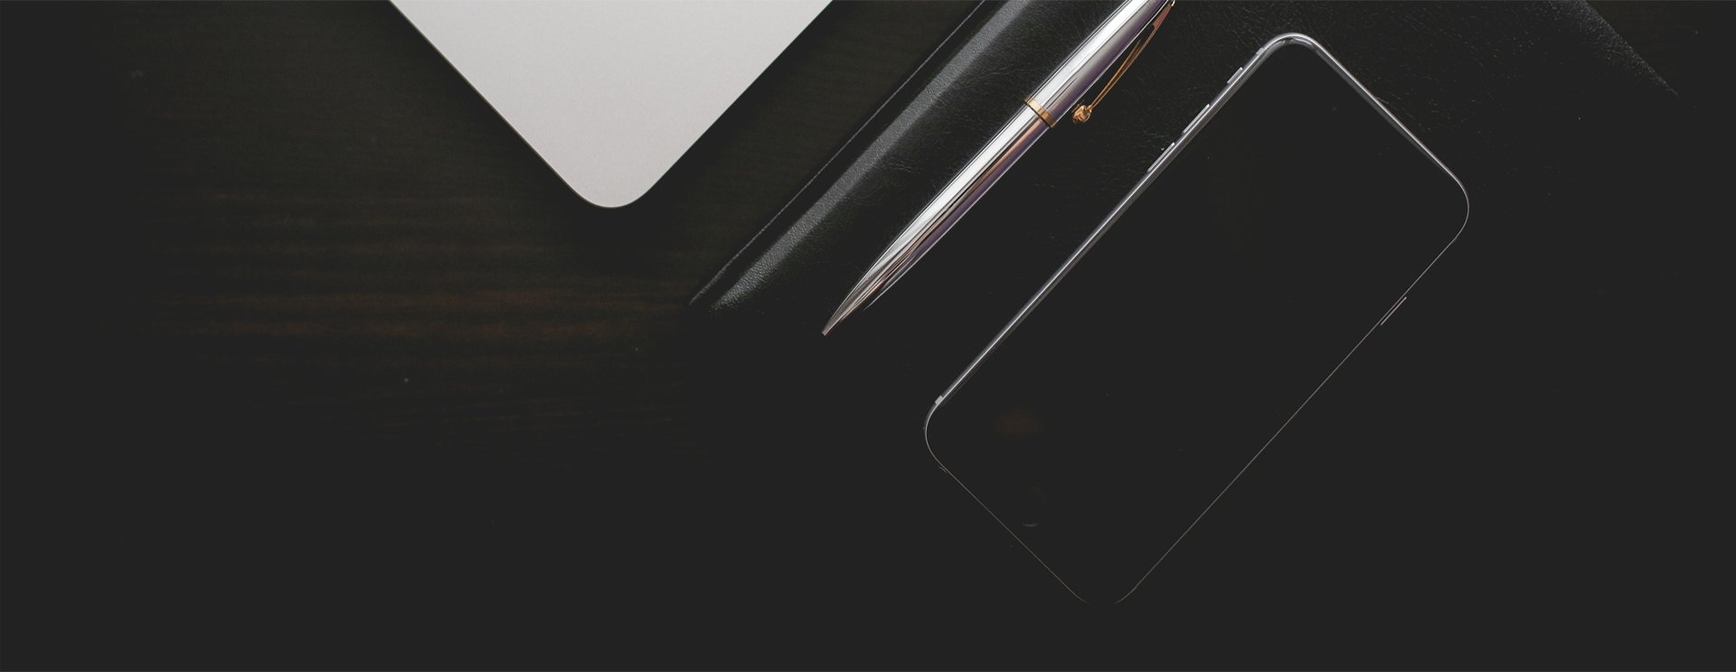
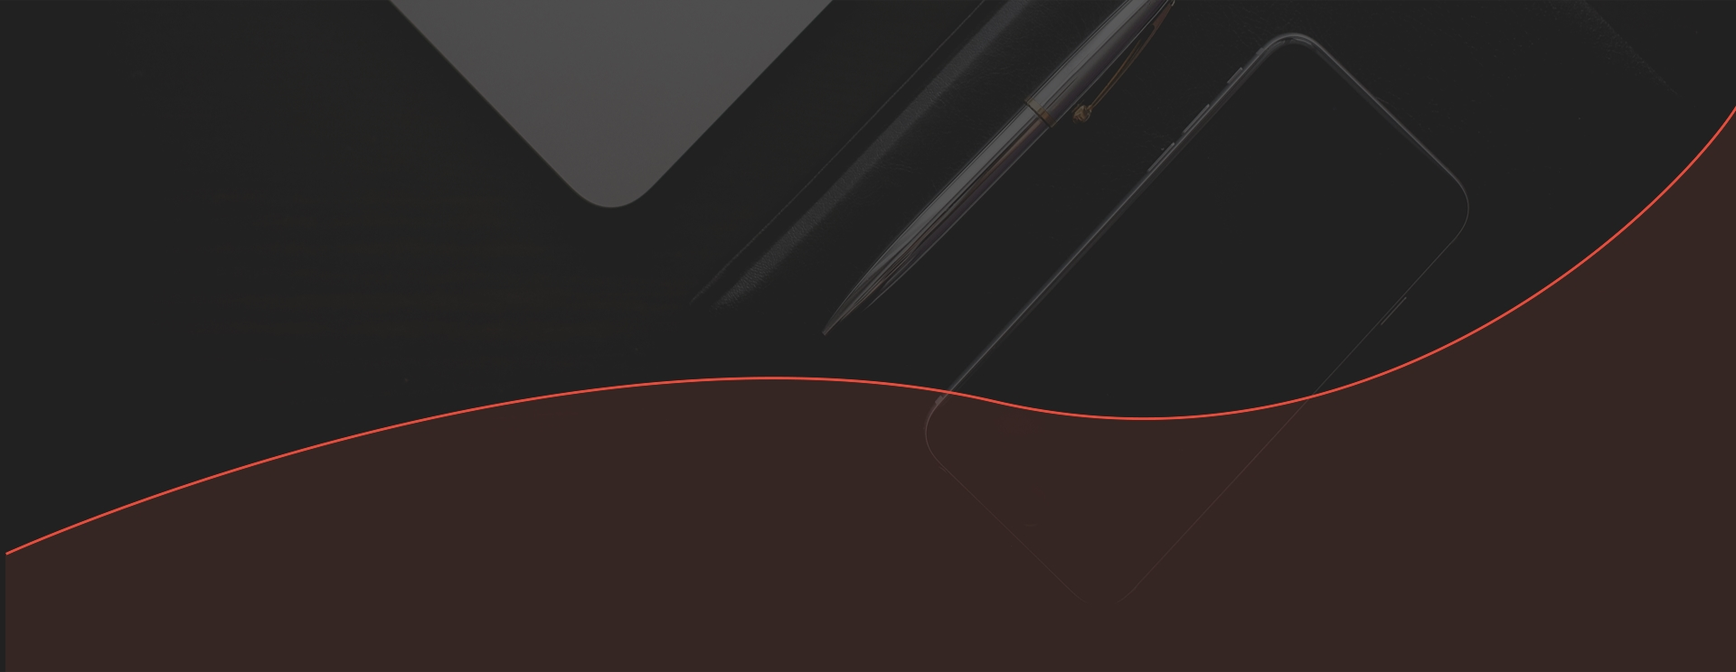
Исправил backdround в stats, team

diff --git a/css/main.min.css b/css/main.min.css
@@ -1,2 +1,2 @@
-body{font-family:"Source Sans Pro", sans-serif;font-size:14px;font-weight:300;color:#f3f5f9;margin:0px}li{list-style-type:none}.container{width:1170px;margin-left:auto;margin-right:auto}.header .container{display:-webkit-box;display:-ms-flexbox;display:flex;padding-top:32px;padding-bottom:31px}.background{background-image:url("../images/header/header-background.png");background-repeat:no-repeat;background-position:center}@media screen and (min-width: 1920px){.background{width:1920px;margin-left:auto;margin-right:auto}}.logo_first_block{padding-top:7px;padding-bottom:5px;padding-left:15px;padding-right:12px;font-family:"Open Sans", sans-serif;font-weight:700;font-size:36px;color:rgba(0,0,0,0.7);background-color:#f3f5f9}.logo_second_block{padding-top:4px;padding-bottom:2px;padding-left:9px;padding-right:10px;margin-left:-4px;font-family:"Open Sans", sans-serif;font-size:36px;color:#f3f5f9;border:3px solid #f3f5f9}.header_list{display:-webkit-box;display:-ms-flexbox;display:flex;margin-left:170px;padding:0px}.header_item{padding-top:5px;padding-bottom:20px;padding-left:5px;padding-right:5px;margin-left:55px;border-bottom:2px solid transparent}.header_item:hover{cursor:pointer;color:red;border-bottom:2px solid red}.header_item.is_active{color:red;border-bottom:2px solid red}.hero{position:relative;display:-webkit-box;display:-ms-flexbox;display:flex;-webkit-box-orient:vertical;-webkit-box-direction:normal;-ms-flex-direction:column;flex-direction:column;-webkit-box-align:center;-ms-flex-align:center;align-items:center;margin-top:203px}.hero_second_title{margin-top:0px;margin-bottom:40px;font-size:24px;font-weight:400}.hero_title{margin-top:0px;margin-bottom:42px;font-family:"Open Sans", sans-serif;font-size:72px;font-weight:700;line-height:1.2;letter-spacing:0.1em}.figure{display:-webkit-box;display:-ms-flexbox;display:flex;-webkit-box-align:center;-ms-flex-align:center;align-items:center;margin-bottom:42px}.figure .line{width:80px;height:1px;background-color:#f3f5f9;border:1px solid #f3f5f9}.figure .circle{width:7px;height:7px;margin-left:14px;margin-right:14px;background-color:#e74e3e;border-radius:50%}.hero_text_wrapper{max-width:580px}.hero_text{margin-top:0px;margin-bottom:68px;text-align:center;font-family:"Open Sans";font-size:14px;line-height:24px;font-weight:400;opacity:0.7}.hero_button{width:225px;height:56px;margin-left:30px;margin-bottom:210px;background-color:transparent;-webkit-box-shadow:0px 2px 5px 0px rgba(0,0,0,0.25);box-shadow:0px 2px 5px 0px rgba(0,0,0,0.25);border:1px solid #f3f5f9;font-family:"Open Sans";font-size:14px;line-height:1.2;font-weight:700;text-transform:uppercase;letter-spacing:0.01em;color:#f3f5f9}.hero_button:hover{background-color:#e74e3e;border:0px solid transparent}.hero_button:first-child{margin-left:0px}.hero_slider_arrow{position:absolute;top:100px;right:48px;display:-webkit-box;display:-ms-flexbox;display:flex;-webkit-box-align:center;-ms-flex-align:center;align-items:center;-webkit-box-pack:center;-ms-flex-pack:center;justify-content:center;cursor:pointer;width:45px;height:45px;background-color:#e74e3e}.blog{position:relative;display:-webkit-box;display:-ms-flexbox;display:flex;-webkit-box-orient:vertical;-webkit-box-direction:normal;-ms-flex-direction:column;flex-direction:column;-webkit-box-align:center;-ms-flex-align:center;align-items:center}.blog_ankor_logo{position:absolute;top:-35px;width:74px;height:74px;background-color:rgba(244,245,249,0.25);border-radius:50%}.ankor_logo{margin-top:5px;margin-left:5px;width:64px;height:64px;background-color:#f3f5f9;background-image:url("../images/blog/ankor.png");background-repeat:no-repeat;background-position:50% 50%;border-radius:50%}.blog_title{margin-top:67px;margin-bottom:0px;font-family:"Source Sans Pro";font-size:36px;line-height:20px;font-weight:700;text-transform:uppercase;text-shadow:0px 1px 0px #f3f5f9;color:#6a6a6a}.blog .figure .line{margin-top:25px;display:-webkit-box;display:-ms-flexbox;display:flex;-webkit-box-align:center;-ms-flex-align:center;align-items:center;background-color:#999;border:1px solid #999}.blog .figure .circle{margin-top:25px}.blog_text{margin-top:32px;font-family:"Open Sans";font-size:14px;line-height:21px;font-weight:400;color:#999}.blog_item_img{max-width:480px}.blog_list{display:-webkit-box;display:-ms-flexbox;display:flex;-ms-flex-wrap:wrap;flex-wrap:wrap;-webkit-box-pack:center;-ms-flex-pack:center;justify-content:center;max-width:1920px;margin:0px;padding:0px}.blog_item{display:-webkit-box;display:-ms-flexbox;display:flex;background-color:#e74e3e}.blog_item_text{position:relative;max-width:431px;padding-left:49px}.blog_item_text_triangle_to_left{position:absolute;top:50%;left:-26px}.blog_item_text_triangle_to_right{position:absolute;top:50%;right:-26px;width:28px}.blog_item_text_category{margin-top:71px;margin-bottom:32px;font-family:"Open Sans";font-size:14px;line-height:1.2;font-weight:400;letter-spacing:0.05em}.blog_item_text_title{position:relative;margin-top:0px;margin-bottom:73px;font-family:"Source Sans Pro";font-size:24px;line-height:1.2;font-weight:600;letter-spacing:0.05em}.blog_item_text_title::after{content:" ";position:absolute;top:48px;left:0;width:44px;height:4px;background-color:#f3f5f9}.blog_item_text_text{margin-top:0px;margin-bottom:55px;margin-right:51px;font-family:"Open Sans";font-size:16px;line-height:1.8;font-weight:300}.blog_item_text_link{margin:0px;font-family:"Open Sans";font-size:18px;line-height:0.75;font-weight:600;font-style:italic}.stats .container{padding-top:143px;padding-bottom:143px}.stats{background-image:-webkit-gradient(linear, left top, left bottom, from(rgba(0,0,0,0.7)), to(rgba(0,0,0,0.7))),url("../../images/stats/stats-background.jpg");background-image:linear-gradient(rgba(0,0,0,0.7), rgba(0,0,0,0.7)),url("../../images/stats/stats-background.jpg");background-repeat:no-repeat;background-position:50% 50%}@media screen and (min-width: 1920px){.stats{width:1920px;margin-left:auto;margin-right:auto}}.stats_list{display:-webkit-box;display:-ms-flexbox;display:flex;padding:0px;margin:0px}.stats_item{display:-webkit-box;display:-ms-flexbox;display:flex;-webkit-box-orient:vertical;-webkit-box-direction:normal;-ms-flex-direction:column;flex-direction:column;-webkit-box-align:center;-ms-flex-align:center;align-items:center;margin-right:147px}.stats_item:last-child{margin-right:0px}.stats_img_wrapper{margin-bottom:49px;position:relative;width:111px;height:111px;border:1px solid #ffffff;border-radius:50%}.stats_img{position:absolute;-webkit-transform:translate(-50%, -50%);transform:translate(-50%, -50%);top:50%;left:50%}.stats_quantity{margin-top:0px;margin-bottom:10px}.stats_name{margin-top:0px;text-align:center;font-size:16px;font-weight:300}.pricing .container{padding-top:156px;display:-webkit-box;display:-ms-flexbox;display:flex;-webkit-box-orient:vertical;-webkit-box-direction:normal;-ms-flex-direction:column;flex-direction:column;-webkit-box-align:center;-ms-flex-align:center;align-items:center}.pricing_title{margin:0px;font-family:"Source Sans Pro";font-size:36px;line-height:1.2;font-weight:700;letter-spacing:0.1em;color:#6a6a6a}.pricing_text{margin-top:29px;margin-bottom:0px;font-family:"Open Sans";font-size:14px;line-height:29px;font-weight:400;color:#999}.pricing .figure{margin-top:28px;margin-bottom:0px}.pricing_list{margin-top:70px;margin-bottom:0px;padding:0px;display:-webkit-box;display:-ms-flexbox;display:flex}.pricing_item{position:relative;background-color:#999;margin-right:16px}.pricing_item:last-child{margin-right:0px}.pricing_item:hover{background-color:#e74e3e}.pricing_item:hover .pricing_price{color:#e74e3e}.pricing_item:hover .pricing_item_button{background-color:#e74e3e}.pricing_item_title{margin:0px;padding-top:50px;padding-bottom:136px;padding-left:133px;padding-right:133px;font-family:"Open Sans";font-size:24px;line-height:1.2;font-weight:700;text-transform:uppercase;letter-spacing:0.075em;color:#f3f5f9}.pricing_price_wrapper{position:absolute;top:27%;left:50%;-webkit-transform:translate(-50%, -50%);transform:translate(-50%, -50%);margin-top:45px;margin-left:auto;margin-right:auto;width:174px;height:172px;background-color:rgba(244,245,249,0.25);border-radius:50%}.pricing_price_circle{position:absolute;top:50%;left:50%;-webkit-transform:translate(-50%, -50%);transform:translate(-50%, -50%);width:153px;height:152px;background-color:#f3f5f9;border-radius:50%}.pricing_price{position:absolute;top:45%;left:50%;-webkit-transform:translate(-50%, -50%);transform:translate(-50%, -50%);margin:0px;font-family:"Source Sans Pro";font-size:39.6px;line-height:21px;font-weight:700;color:#999}.pricing_cost{position:absolute;top:65%;left:50%;-webkit-transform:translate(-50%, -50%);transform:translate(-50%, -50%);margin:0px;font-family:"Source Sans Pro";font-size:13.2px;line-height:21px;font-weight:700;color:#999}.pricing_item_text{width:100%;margin:0px;padding-top:125px;padding-bottom:144px;text-align:center;font-family:"Open Sans";font-size:14px;line-height:40px;font-weight:600;color:#999;background-color:#f3f5f9}.pricing_item_button{position:absolute;top:90%;left:50%;-webkit-transform:translate(-50%, -50%);transform:translate(-50%, -50%);font-family:"Open Sans";font-size:12px;line-height:1.2;font-weight:600;text-transform:uppercase;letter-spacing:0.01em;color:#f3f5f9;width:145px;height:46px;background-color:#999;-webkit-box-shadow:0px 2px 5px 0px rgba(0,0,0,0.25);box-shadow:0px 2px 5px 0px rgba(0,0,0,0.25);border:none}.team{display:-webkit-box;display:-ms-flexbox;display:flex;-webkit-box-orient:vertical;-webkit-box-direction:normal;-ms-flex-direction:column;flex-direction:column;-webkit-box-align:center;-ms-flex-align:center;align-items:center;padding-top:150px;padding-bottom:385px;background-image:url("../../images/team/background-overlay.png"),-webkit-gradient(linear, left top, left bottom, from(rgba(0,0,0,0.7)), to(rgba(0,0,0,0.7))),url("../../images/team/team-background.jpg");background-image:url("../../images/team/background-overlay.png"),linear-gradient(rgba(0,0,0,0.7), rgba(0,0,0,0.7)),url("../../images/team/team-background.jpg");background-repeat:no-repeat;background-position:50% 100%}@media screen and (min-width: 1920px){.team{max-width:1920px;margin-left:auto;margin-right:auto}}.team_title{margin-top:0px;margin-bottom:0px;font-family:"Source Sans Pro";font-size:36px;line-height:1.2;font-weight:700;letter-spacing:0.1em;color:#f3f5f9}.team_text{margin-top:29px;margin-bottom:0px;font-family:"Open Sans";font-size:14px;line-height:29px;font-weight:400;color:#f3f5f9}.team .figure{margin-top:32px;margin-bottom:50px}.team_list{position:relative}.team_item{display:-webkit-box;display:-ms-flexbox;display:flex;-webkit-box-orient:vertical;-webkit-box-direction:normal;-ms-flex-direction:column;flex-direction:column;-webkit-box-align:center;-ms-flex-align:center;align-items:center;position:relative;width:50px;height:51px;background-color:#e74e3e;border:3px solid #e74e3e;border-radius:50%}.team_item:hover{-webkit-transform:scale(1.5);transform:scale(1.5)}.team_item:hover .team_item_image{opacity:0.25}.team_item:hover .team_item_name,.team_item:hover .team_item_employment{opacity:1}.team_item_image{width:50px;height:51px}.team_item_name{width:200px;margin-top:50px;margin-bottom:0px;opacity:0;text-align:center;font-family:"Open Sans";font-size:24px;line-height:1.2;font-weight:700;text-transform:uppercase;letter-spacing:0.075em;color:#e74e3e}.team_item_name::before{content:" ";position:absolute;top:55px;left:23px;width:1px;height:30px;background-color:#f3f5f9}.team_item_employment{margin-top:19px;margin-bottom:0px;width:200px;text-align:center;font-family:"Source Sans Pro";font-size:14px;line-height:23px;font-weight:700;letter-spacing:0.1em;color:#f3f5f9;opacity:0}.team_item{position:absolute}.team_item.member_1{top:90px;left:-550px}.team_item.member_2{top:45px;left:-280px}.team_item.member_3{top:40px;left:-5px}.team_item.member_4{top:80px;left:280px}.team_item.member_5{top:30px;left:550px}.contact{background-color:#f3f5f9}.contact .container{display:-webkit-box;display:-ms-flexbox;display:flex;-webkit-box-orient:vertical;-webkit-box-direction:normal;-ms-flex-direction:column;flex-direction:column;-webkit-box-align:center;-ms-flex-align:center;align-items:center;padding-top:149px;padding-bottom:146px}.contact_title{margin-top:0px;margin-bottom:32px;font-family:"Source Sans Pro";font-size:36px;line-height:20px;font-weight:700;text-transform:uppercase;text-shadow:0px 1px 0px #f3f5f9;color:#6a6a6a}.contact_text{margin-top:0px;margin-bottom:25px;font-family:"Open Sans";font-size:14px;line-height:21px;font-weight:400;color:#999}.contact .figure{margin-top:0px;margin-bottom:67px}.contact_wrapper{display:-webkit-box;display:-ms-flexbox;display:flex}.contact_info_wrapper{padding-top:49px;padding-left:91px;padding-right:125px;margin-right:28px;background-color:#f3f5f9;-webkit-box-shadow:0px 3px 5px 0px rgba(0,0,0,0.1);box-shadow:0px 3px 5px 0px rgba(0,0,0,0.1)}.contact_info_title{margin-top:0px;margin-bottom:28px;font-family:"Source Sans Pro";font-size:24px;line-height:24px;font-weight:600;text-transform:uppercase;color:#e74e3e}.contact_info{margin-top:0px;margin-bottom:70px;font-family:"Open Sans";font-size:18px;line-height:24px;font-weight:400;color:#999}.contact_form{display:-webkit-box;display:-ms-flexbox;display:flex;-webkit-box-orient:vertical;-webkit-box-direction:normal;-ms-flex-direction:column;flex-direction:column;padding-top:33px;padding-bottom:97px;padding-left:91px;padding-right:100px;background-color:#f3f5f9;-webkit-box-shadow:0px 5px 5px 0px rgba(0,0,0,0.1);box-shadow:0px 5px 5px 0px rgba(0,0,0,0.1)}.contact_form_label{position:relative}.contact_form_input{padding-top:16px;padding-bottom:16px;margin-bottom:29px;width:464px;font-family:"Open Sans";font-size:14px;line-height:24px;font-weight:600;color:#999;border:none;border-bottom:1px solid #999}.contact_form_button{width:157px;height:44px;background-color:#e74e3e;-webkit-box-shadow:0px 2px 5px 0px rgba(0,0,0,0.25);box-shadow:0px 2px 5px 0px rgba(0,0,0,0.25);font-family:"Open Sans";font-size:14px;line-height:40px;font-weight:700;color:#f3f5f9;border:none}.footer{background-color:#202020}.footer .container{display:-webkit-box;display:-ms-flexbox;display:flex;-webkit-box-pack:justify;-ms-flex-pack:justify;justify-content:space-between}.social_media_list{margin:0px;display:-webkit-box;display:-ms-flexbox;display:flex;padding-top:35px;padding-bottom:35px;padding-left:0px}.social_media_item{margin-right:26px}.social_media_item:hover .svg{fill:#e74e3e}.svg{width:21px;height:20px;fill:#f3f5f9;opacity:0.74}.copyright{padding-top:35px;padding-bottom:35px;opacity:0.74;font-family:"Open Sans";font-size:14px;line-height:24px;font-weight:600;color:#999}
+body{font-family:"Source Sans Pro", sans-serif;font-size:14px;font-weight:300;color:#f3f5f9;margin:0px}li{list-style-type:none}.container{width:1170px;margin-left:auto;margin-right:auto}.header .container{display:-webkit-box;display:-ms-flexbox;display:flex;padding-top:32px;padding-bottom:31px}.background{background-image:url("../images/header/header-background.png");background-repeat:no-repeat;background-position:center}@media screen and (min-width: 1920px){.background{width:1920px;margin-left:auto;margin-right:auto}}.logo_first_block{padding-top:7px;padding-bottom:5px;padding-left:15px;padding-right:12px;font-family:"Open Sans", sans-serif;font-weight:700;font-size:36px;color:rgba(0,0,0,0.7);background-color:#f3f5f9}.logo_second_block{padding-top:4px;padding-bottom:2px;padding-left:9px;padding-right:10px;margin-left:-4px;font-family:"Open Sans", sans-serif;font-size:36px;color:#f3f5f9;border:3px solid #f3f5f9}.header_list{display:-webkit-box;display:-ms-flexbox;display:flex;margin-left:170px;padding:0px}.header_item{padding-top:5px;padding-bottom:20px;padding-left:5px;padding-right:5px;margin-left:55px;border-bottom:2px solid transparent}.header_item:hover{cursor:pointer;color:red;border-bottom:2px solid red}.header_item.is_active{color:red;border-bottom:2px solid red}.hero{position:relative;display:-webkit-box;display:-ms-flexbox;display:flex;-webkit-box-orient:vertical;-webkit-box-direction:normal;-ms-flex-direction:column;flex-direction:column;-webkit-box-align:center;-ms-flex-align:center;align-items:center;margin-top:203px}.hero_second_title{margin-top:0px;margin-bottom:40px;font-size:24px;font-weight:400}.hero_title{margin-top:0px;margin-bottom:42px;font-family:"Open Sans", sans-serif;font-size:72px;font-weight:700;line-height:1.2;letter-spacing:0.1em}.figure{display:-webkit-box;display:-ms-flexbox;display:flex;-webkit-box-align:center;-ms-flex-align:center;align-items:center;margin-bottom:42px}.figure .line{width:80px;height:1px;background-color:#f3f5f9;border:1px solid #f3f5f9}.figure .circle{width:7px;height:7px;margin-left:14px;margin-right:14px;background-color:#e74e3e;border-radius:50%}.hero_text_wrapper{max-width:580px}.hero_text{margin-top:0px;margin-bottom:68px;text-align:center;font-family:"Open Sans";font-size:14px;line-height:24px;font-weight:400;opacity:0.7}.hero_button{width:225px;height:56px;margin-left:30px;margin-bottom:210px;background-color:transparent;-webkit-box-shadow:0px 2px 5px 0px rgba(0,0,0,0.25);box-shadow:0px 2px 5px 0px rgba(0,0,0,0.25);border:1px solid #f3f5f9;font-family:"Open Sans";font-size:14px;line-height:1.2;font-weight:700;text-transform:uppercase;letter-spacing:0.01em;color:#f3f5f9}.hero_button:hover{background-color:#e74e3e;border:0px solid transparent}.hero_button:first-child{margin-left:0px}.hero_slider_arrow{position:absolute;top:100px;right:48px;display:-webkit-box;display:-ms-flexbox;display:flex;-webkit-box-align:center;-ms-flex-align:center;align-items:center;-webkit-box-pack:center;-ms-flex-pack:center;justify-content:center;cursor:pointer;width:45px;height:45px;background-color:#e74e3e}.blog{position:relative;display:-webkit-box;display:-ms-flexbox;display:flex;-webkit-box-orient:vertical;-webkit-box-direction:normal;-ms-flex-direction:column;flex-direction:column;-webkit-box-align:center;-ms-flex-align:center;align-items:center}.blog_ankor_logo{position:absolute;top:-35px;width:74px;height:74px;background-color:rgba(244,245,249,0.25);border-radius:50%}.ankor_logo{margin-top:5px;margin-left:5px;width:64px;height:64px;background-color:#f3f5f9;background-image:url("../images/blog/ankor.png");background-repeat:no-repeat;background-position:50% 50%;border-radius:50%}.blog_title{margin-top:67px;margin-bottom:0px;font-family:"Source Sans Pro";font-size:36px;line-height:20px;font-weight:700;text-transform:uppercase;text-shadow:0px 1px 0px #f3f5f9;color:#6a6a6a}.blog .figure .line{margin-top:25px;display:-webkit-box;display:-ms-flexbox;display:flex;-webkit-box-align:center;-ms-flex-align:center;align-items:center;background-color:#999;border:1px solid #999}.blog .figure .circle{margin-top:25px}.blog_text{margin-top:32px;font-family:"Open Sans";font-size:14px;line-height:21px;font-weight:400;color:#999}.blog_item_img{max-width:480px}.blog_list{display:-webkit-box;display:-ms-flexbox;display:flex;-ms-flex-wrap:wrap;flex-wrap:wrap;-webkit-box-pack:center;-ms-flex-pack:center;justify-content:center;max-width:1920px;margin:0px;padding:0px}.blog_item{display:-webkit-box;display:-ms-flexbox;display:flex;background-color:#e74e3e}.blog_item_text{position:relative;max-width:431px;padding-left:49px}.blog_item_text_triangle_to_left{position:absolute;top:50%;left:-26px}.blog_item_text_triangle_to_right{position:absolute;top:50%;right:-26px;width:28px}.blog_item_text_category{margin-top:71px;margin-bottom:32px;font-family:"Open Sans";font-size:14px;line-height:1.2;font-weight:400;letter-spacing:0.05em}.blog_item_text_title{position:relative;margin-top:0px;margin-bottom:73px;font-family:"Source Sans Pro";font-size:24px;line-height:1.2;font-weight:600;letter-spacing:0.05em}.blog_item_text_title::after{content:" ";position:absolute;top:48px;left:0;width:44px;height:4px;background-color:#f3f5f9}.blog_item_text_text{margin-top:0px;margin-bottom:55px;margin-right:51px;font-family:"Open Sans";font-size:16px;line-height:1.8;font-weight:300}.blog_item_text_link{margin:0px;font-family:"Open Sans";font-size:18px;line-height:0.75;font-weight:600;font-style:italic}.stats .container{padding-top:143px;padding-bottom:143px}.stats{background-image:url("../../images/stats/stats-background.png");background-repeat:no-repeat;background-position:50% 50%}@media screen and (min-width: 1920px){.stats{width:1920px;margin-left:auto;margin-right:auto}}.stats_list{display:-webkit-box;display:-ms-flexbox;display:flex;padding:0px;margin:0px}.stats_item{display:-webkit-box;display:-ms-flexbox;display:flex;-webkit-box-orient:vertical;-webkit-box-direction:normal;-ms-flex-direction:column;flex-direction:column;-webkit-box-align:center;-ms-flex-align:center;align-items:center;margin-right:147px}.stats_item:last-child{margin-right:0px}.stats_img_wrapper{margin-bottom:49px;position:relative;width:111px;height:111px;border:1px solid #ffffff;border-radius:50%}.stats_img{position:absolute;-webkit-transform:translate(-50%, -50%);transform:translate(-50%, -50%);top:50%;left:50%}.stats_quantity{margin-top:0px;margin-bottom:10px}.stats_name{margin-top:0px;text-align:center;font-size:16px;font-weight:300}.pricing .container{padding-top:156px;display:-webkit-box;display:-ms-flexbox;display:flex;-webkit-box-orient:vertical;-webkit-box-direction:normal;-ms-flex-direction:column;flex-direction:column;-webkit-box-align:center;-ms-flex-align:center;align-items:center}.pricing_title{margin:0px;font-family:"Source Sans Pro";font-size:36px;line-height:1.2;font-weight:700;letter-spacing:0.1em;color:#6a6a6a}.pricing_text{margin-top:29px;margin-bottom:0px;font-family:"Open Sans";font-size:14px;line-height:29px;font-weight:400;color:#999}.pricing .figure{margin-top:28px;margin-bottom:0px}.pricing_list{margin-top:70px;margin-bottom:0px;padding:0px;display:-webkit-box;display:-ms-flexbox;display:flex}.pricing_item{position:relative;background-color:#999;margin-right:16px}.pricing_item:last-child{margin-right:0px}.pricing_item:hover{background-color:#e74e3e}.pricing_item:hover .pricing_price{color:#e74e3e}.pricing_item:hover .pricing_item_button{background-color:#e74e3e}.pricing_item_title{margin:0px;padding-top:50px;padding-bottom:136px;padding-left:133px;padding-right:133px;font-family:"Open Sans";font-size:24px;line-height:1.2;font-weight:700;text-transform:uppercase;letter-spacing:0.075em;color:#f3f5f9}.pricing_price_wrapper{position:absolute;top:27%;left:50%;-webkit-transform:translate(-50%, -50%);transform:translate(-50%, -50%);margin-top:45px;margin-left:auto;margin-right:auto;width:174px;height:172px;background-color:rgba(244,245,249,0.25);border-radius:50%}.pricing_price_circle{position:absolute;top:50%;left:50%;-webkit-transform:translate(-50%, -50%);transform:translate(-50%, -50%);width:153px;height:152px;background-color:#f3f5f9;border-radius:50%}.pricing_price{position:absolute;top:45%;left:50%;-webkit-transform:translate(-50%, -50%);transform:translate(-50%, -50%);margin:0px;font-family:"Source Sans Pro";font-size:39.6px;line-height:21px;font-weight:700;color:#999}.pricing_cost{position:absolute;top:65%;left:50%;-webkit-transform:translate(-50%, -50%);transform:translate(-50%, -50%);margin:0px;font-family:"Source Sans Pro";font-size:13.2px;line-height:21px;font-weight:700;color:#999}.pricing_item_text{width:100%;margin:0px;padding-top:125px;padding-bottom:144px;text-align:center;font-family:"Open Sans";font-size:14px;line-height:40px;font-weight:600;color:#999;background-color:#f3f5f9}.pricing_item_button{position:absolute;top:90%;left:50%;-webkit-transform:translate(-50%, -50%);transform:translate(-50%, -50%);font-family:"Open Sans";font-size:12px;line-height:1.2;font-weight:600;text-transform:uppercase;letter-spacing:0.01em;color:#f3f5f9;width:145px;height:46px;background-color:#999;-webkit-box-shadow:0px 2px 5px 0px rgba(0,0,0,0.25);box-shadow:0px 2px 5px 0px rgba(0,0,0,0.25);border:none}.team{display:-webkit-box;display:-ms-flexbox;display:flex;-webkit-box-orient:vertical;-webkit-box-direction:normal;-ms-flex-direction:column;flex-direction:column;-webkit-box-align:center;-ms-flex-align:center;align-items:center;padding-top:150px;padding-bottom:385px;background-image:url("../../images/team/team-background.jpg");background-repeat:no-repeat;background-position:center}@media screen and (min-width: 1920px){.team{max-width:1920px;margin-left:auto;margin-right:auto}}.team_title{margin-top:0px;margin-bottom:0px;font-family:"Source Sans Pro";font-size:36px;line-height:1.2;font-weight:700;letter-spacing:0.1em;color:#f3f5f9}.team_text{margin-top:29px;margin-bottom:0px;font-family:"Open Sans";font-size:14px;line-height:29px;font-weight:400;color:#f3f5f9}.team .figure{margin-top:32px;margin-bottom:50px}.team_list{position:relative}.team_item{display:-webkit-box;display:-ms-flexbox;display:flex;-webkit-box-orient:vertical;-webkit-box-direction:normal;-ms-flex-direction:column;flex-direction:column;-webkit-box-align:center;-ms-flex-align:center;align-items:center;position:relative;width:50px;height:51px;background-color:#e74e3e;border:3px solid #e74e3e;border-radius:50%}.team_item:hover{-webkit-transform:scale(1.5);transform:scale(1.5)}.team_item:hover .team_item_image{opacity:0.25}.team_item:hover .team_item_name,.team_item:hover .team_item_employment{opacity:1}.team_item_image{width:50px;height:51px}.team_item_name{width:200px;margin-top:50px;margin-bottom:0px;opacity:0;text-align:center;font-family:"Open Sans";font-size:24px;line-height:1.2;font-weight:700;text-transform:uppercase;letter-spacing:0.075em;color:#e74e3e}.team_item_name::before{content:" ";position:absolute;top:55px;left:23px;width:1px;height:30px;background-color:#f3f5f9}.team_item_employment{margin-top:19px;margin-bottom:0px;width:200px;text-align:center;font-family:"Source Sans Pro";font-size:14px;line-height:23px;font-weight:700;letter-spacing:0.1em;color:#f3f5f9;opacity:0}.team_item{position:absolute}.team_item.member_1{top:90px;left:-550px}.team_item.member_2{top:45px;left:-280px}.team_item.member_3{top:40px;left:-5px}.team_item.member_4{top:80px;left:280px}.team_item.member_5{top:30px;left:550px}.contact{background-color:#f3f5f9}.contact .container{display:-webkit-box;display:-ms-flexbox;display:flex;-webkit-box-orient:vertical;-webkit-box-direction:normal;-ms-flex-direction:column;flex-direction:column;-webkit-box-align:center;-ms-flex-align:center;align-items:center;padding-top:149px;padding-bottom:146px}.contact_title{margin-top:0px;margin-bottom:32px;font-family:"Source Sans Pro";font-size:36px;line-height:20px;font-weight:700;text-transform:uppercase;text-shadow:0px 1px 0px #f3f5f9;color:#6a6a6a}.contact_text{margin-top:0px;margin-bottom:25px;font-family:"Open Sans";font-size:14px;line-height:21px;font-weight:400;color:#999}.contact .figure{margin-top:0px;margin-bottom:67px}.contact_wrapper{display:-webkit-box;display:-ms-flexbox;display:flex}.contact_info_wrapper{padding-top:49px;padding-left:91px;padding-right:125px;margin-right:28px;background-color:#f3f5f9;-webkit-box-shadow:0px 3px 5px 0px rgba(0,0,0,0.1);box-shadow:0px 3px 5px 0px rgba(0,0,0,0.1)}.contact_info_title{margin-top:0px;margin-bottom:28px;font-family:"Source Sans Pro";font-size:24px;line-height:24px;font-weight:600;text-transform:uppercase;color:#e74e3e}.contact_info{margin-top:0px;margin-bottom:70px;font-family:"Open Sans";font-size:18px;line-height:24px;font-weight:400;color:#999}.contact_form{display:-webkit-box;display:-ms-flexbox;display:flex;-webkit-box-orient:vertical;-webkit-box-direction:normal;-ms-flex-direction:column;flex-direction:column;padding-top:33px;padding-bottom:97px;padding-left:91px;padding-right:100px;background-color:#f3f5f9;-webkit-box-shadow:0px 5px 5px 0px rgba(0,0,0,0.1);box-shadow:0px 5px 5px 0px rgba(0,0,0,0.1)}.contact_form_label{position:relative}.contact_form_input{padding-top:16px;padding-bottom:16px;margin-bottom:29px;width:464px;font-family:"Open Sans";font-size:14px;line-height:24px;font-weight:600;color:#999;border:none;border-bottom:1px solid #999}.contact_form_button{width:157px;height:44px;background-color:#e74e3e;-webkit-box-shadow:0px 2px 5px 0px rgba(0,0,0,0.25);box-shadow:0px 2px 5px 0px rgba(0,0,0,0.25);font-family:"Open Sans";font-size:14px;line-height:40px;font-weight:700;color:#f3f5f9;border:none}.footer{background-color:#202020}.footer .container{display:-webkit-box;display:-ms-flexbox;display:flex;-webkit-box-pack:justify;-ms-flex-pack:justify;justify-content:space-between}.social_media_list{margin:0px;display:-webkit-box;display:-ms-flexbox;display:flex;padding-top:35px;padding-bottom:35px;padding-left:0px}.social_media_item{margin-right:26px}.social_media_item:hover .svg{fill:#e74e3e}.svg{width:21px;height:20px;fill:#f3f5f9;opacity:0.74}.copyright{padding-top:35px;padding-bottom:35px;opacity:0.74;font-family:"Open Sans";font-size:14px;line-height:24px;font-weight:600;color:#999}
 /*# sourceMappingURL=main.min.css.map */

diff --git a/css/main.css b/css/main.css
@@ -381,8 +381,7 @@ li {
 }
 
 .stats {
-  background-image: -webkit-gradient(linear, left top, left bottom, from(rgba(0, 0, 0, 0.7)), to(rgba(0, 0, 0, 0.7))), url("../../images/stats/stats-background.jpg");
-  background-image: linear-gradient(rgba(0, 0, 0, 0.7), rgba(0, 0, 0, 0.7)), url("../../images/stats/stats-background.jpg");
+  background-image: url("../../images/stats/stats-background.png");
   background-repeat: no-repeat;
   background-position: 50% 50%;
 }
@@ -638,10 +637,9 @@ li {
           align-items: center;
   padding-top: 150px;
   padding-bottom: 385px;
-  background-image: url("../../images/team/background-overlay.png"), -webkit-gradient(linear, left top, left bottom, from(rgba(0, 0, 0, 0.7)), to(rgba(0, 0, 0, 0.7))), url("../../images/team/team-background.jpg");
-  background-image: url("../../images/team/background-overlay.png"), linear-gradient(rgba(0, 0, 0, 0.7), rgba(0, 0, 0, 0.7)), url("../../images/team/team-background.jpg");
+  background-image: url("../../images/team/team-background.jpg");
   background-repeat: no-repeat;
-  background-position: 50% 100%;
+  background-position: center;
 }
 
 @media screen and (min-width: 1920px) {

diff --git a/sass/components/_team.scss b/sass/components/_team.scss
@@ -6,11 +6,9 @@
   padding-top: 150px;
   padding-bottom: 385px;
 
-  background-image: url("../../images/team/background-overlay.png"),
-    linear-gradient(rgba(0, 0, 0, 0.7), rgba(0, 0, 0, 0.7)),
-    url("../../images/team/team-background.jpg");
+  background-image: url("../../images/team/team-background.jpg");
   background-repeat: no-repeat;
-  background-position: 50% 100%;
+  background-position: center;
 
   @media screen and (min-width: 1920px) {
     max-width: 1920px;

diff --git a/sass/components/_stats.scss b/sass/components/_stats.scss
@@ -4,8 +4,7 @@
 }
 
 .stats {
-  background-image: linear-gradient(rgba(0, 0, 0, 0.7), rgba(0, 0, 0, 0.7)),
-    url("../../images/stats/stats-background.jpg");
+  background-image: url("../../images/stats/stats-background.png");
   background-repeat: no-repeat;
   background-position: 50% 50%;
 
